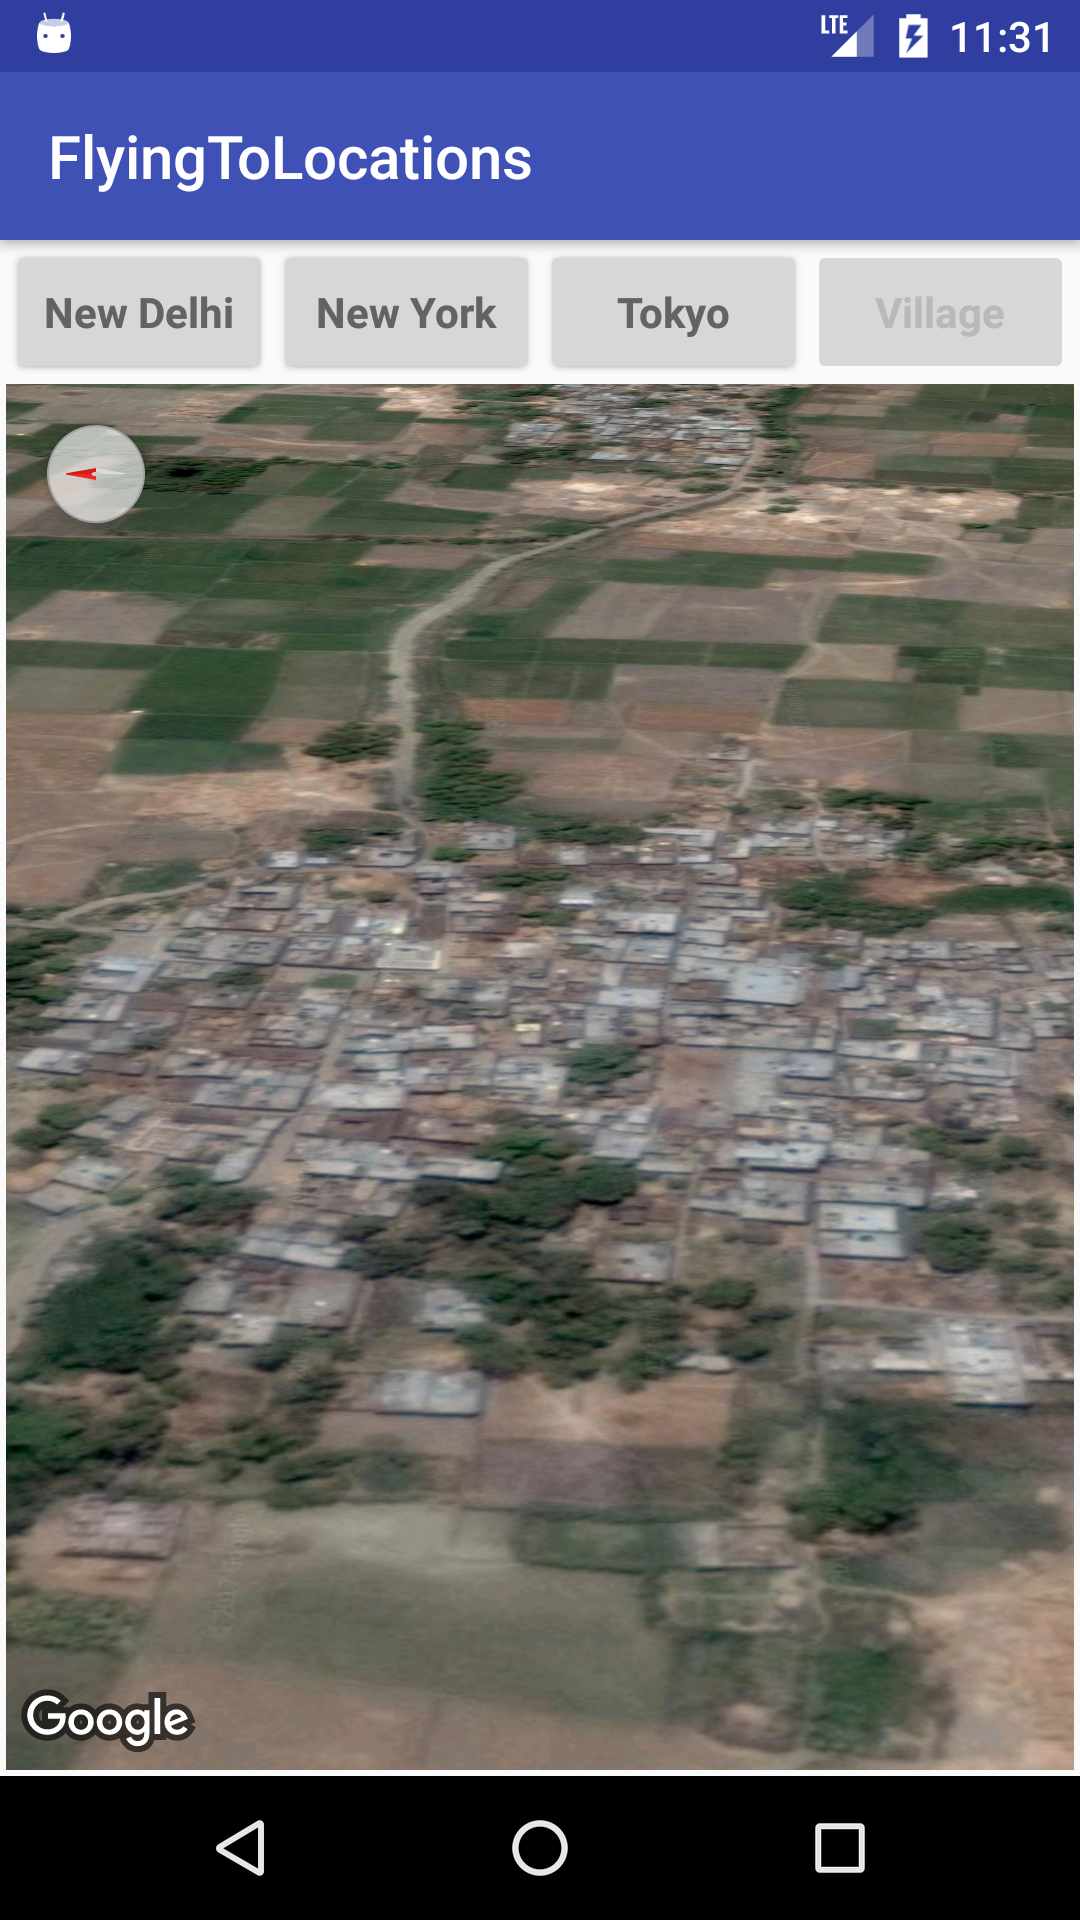
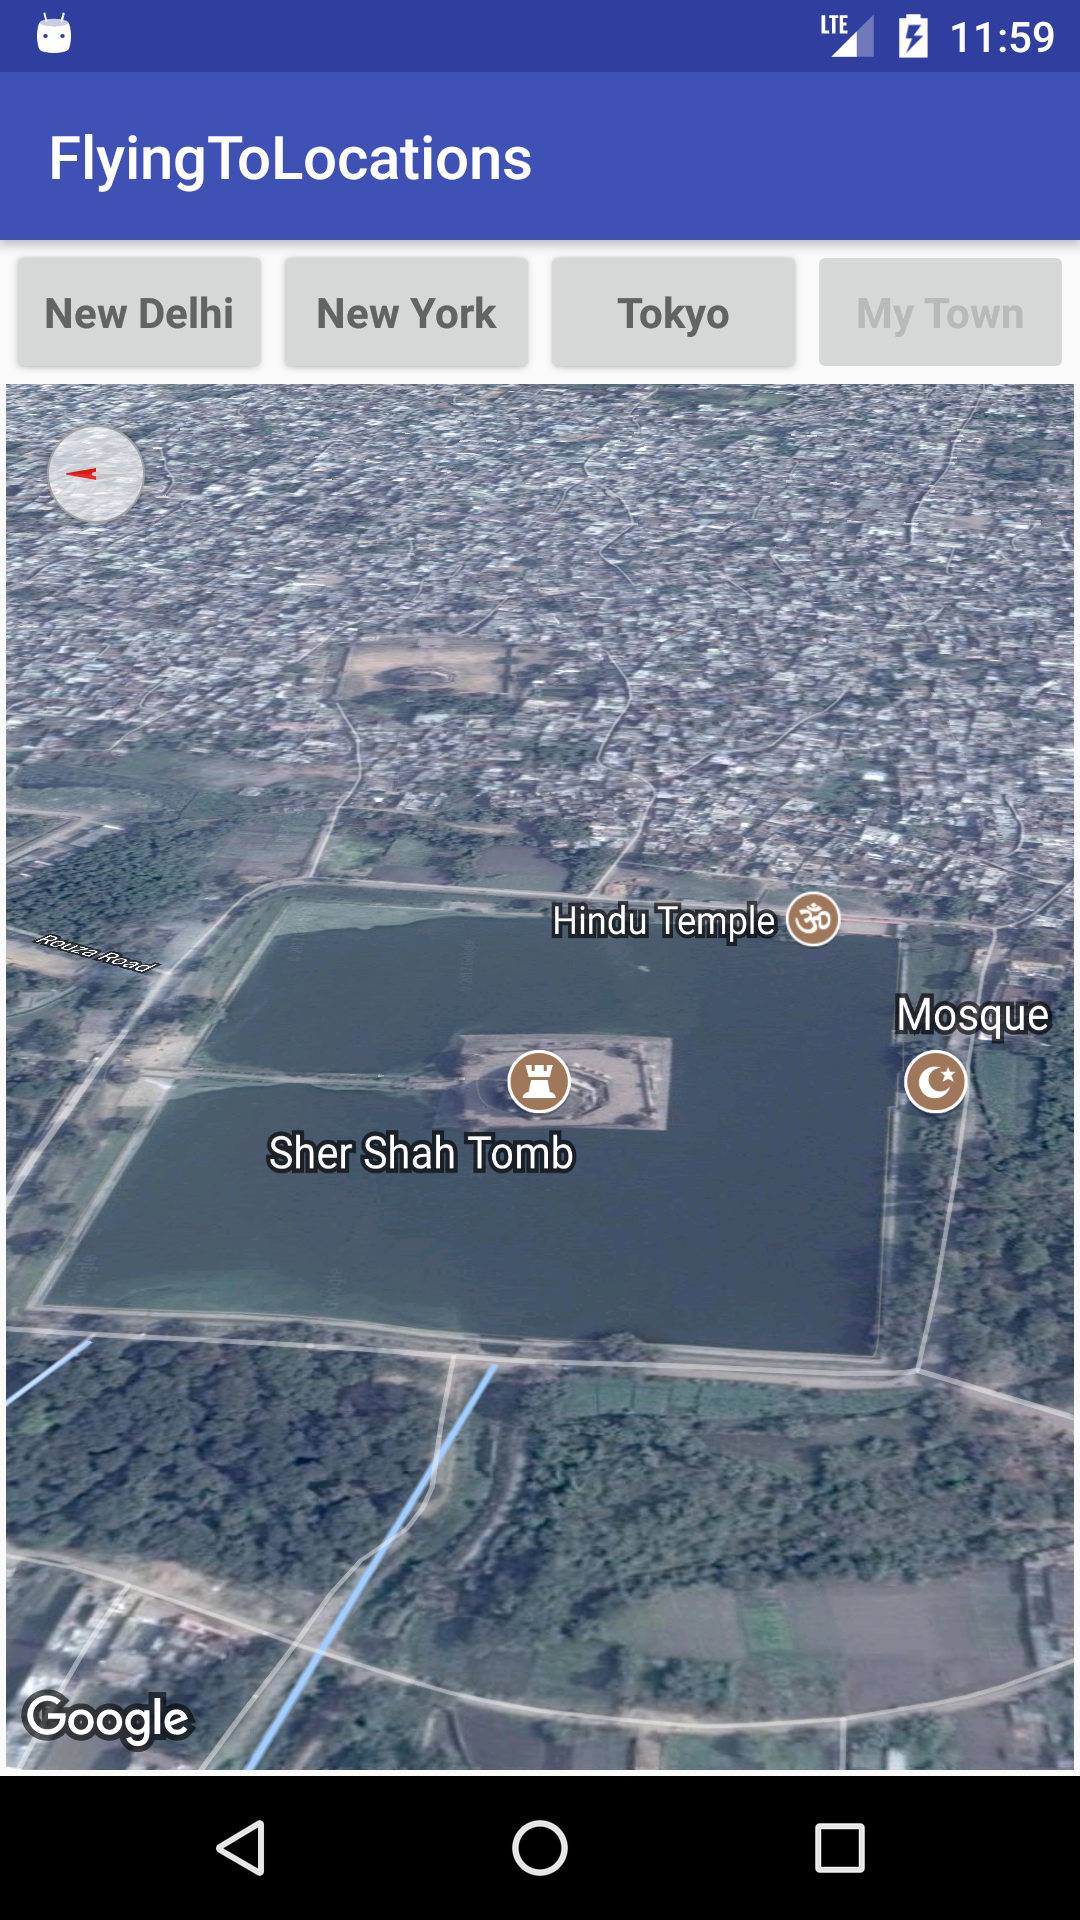
Add Flying to location for Documentation update

diff --git a/FlyingToLocations/app/src/main/java/com/kumar/mrdroid/flyingtolocations/MainActivity.java b/FlyingToLocations/app/src/main/java/com/kumar/mrdroid/flyingtolocations/MainActivity.java
@@ -53,8 +53,13 @@ public class MainActivity extends AppCompatActivity implements OnMapReadyCallbac
             tilt(45).
             build();
 
-    static final CameraPosition MY_VILLAGE= CameraPosition.builder().
-            target(new LatLng(25.0885, 84.156778)).
+    /***
+     *  Coordinate for Tomb of SherShah Suri, Sasaram, Bihar(India) 24.9481° N, 84.0093° E
+     *  lat -  24.9481° N,
+     *  lng -  84.0093° E
+     */
+    static final CameraPosition HOMETOWN= CameraPosition.builder().
+            target(new LatLng(24.9481, 84.0093)).
             zoom(17).
             bearing(90).
             tilt(65).
@@ -142,7 +147,7 @@ public class MainActivity extends AppCompatActivity implements OnMapReadyCallbac
             @Override
             public void onClick(View view) {
                 if(mapReady){
-                    flyTo(MY_VILLAGE);
+                    flyTo(HOMETOWN);
                 }
 
                 btnDelhi.setEnabled(true);
